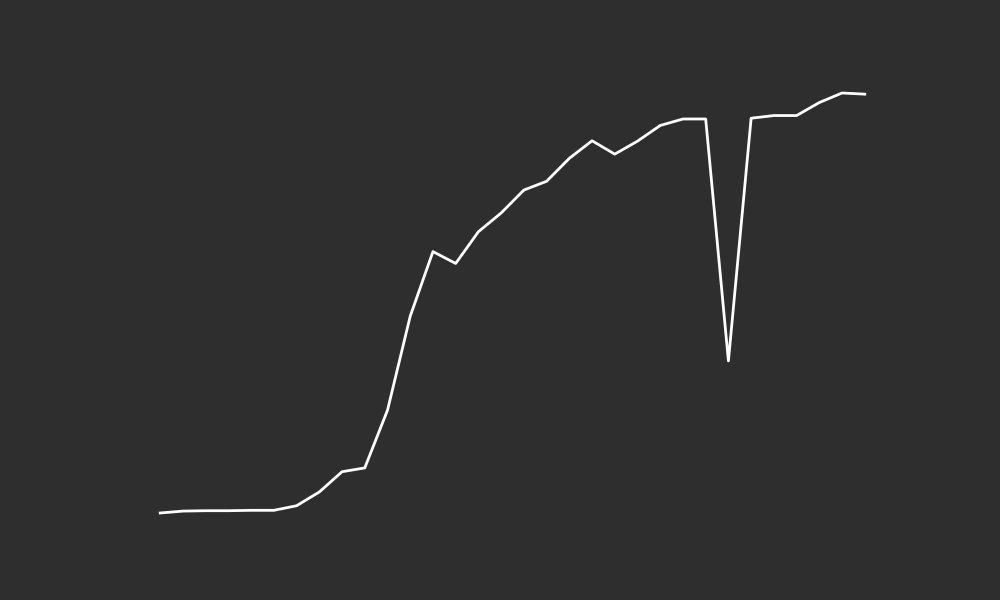
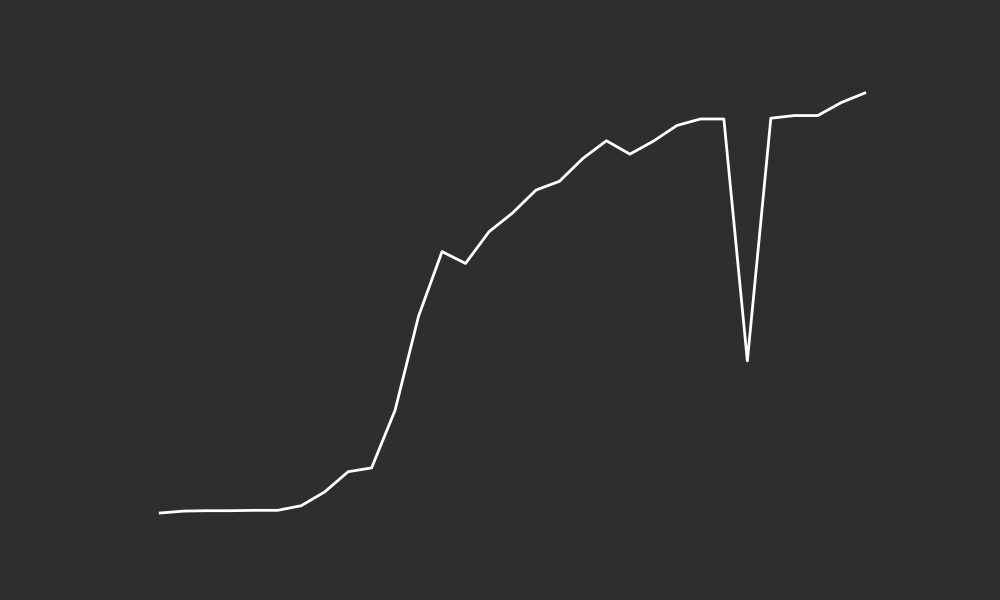
Returned to previous csv

diff --git a/README.md b/README.md
@@ -1,6 +1,6 @@
-# Delegators Count (APT $8.19)<br><br>
-Total Delegators: 48133<br>
-Total APT Delegated: 324017429<br><br>
+# Delegators Count (APT $8.14)<br><br>
+Total Delegators: 48136<br>
+Total APT Delegated: 323286579<br><br>
 ![Delegators Plot](delegators_plot.png)<br><br>
 **OP received for the third airdrop on 18.09.2023 (price of OP was $1.368):**<br>
 Addresses received drop: 31870<br>
@@ -8,7 +8,7 @@ Average amount received: 609.08 ($833.22)<br>
 Median amount received: 238.49 ($326.26)<br>
 Total drop distribution: 19411313 ($26554676.18)<br><br>
 If Aptos Foundation team spent the same amount for the delegation airdrop as Optimism Foundation team ($26554676.18),<br>
-they will spend 3242329.20 APT for this airdrop.<br>
-With this logic, every APT delegate will receive on average: 67.36 APT ($551.69)<br><br>
-Currently Foundation team has unlocked: 36848000.00 APT ($301785120.00)<br>
-If Aptos Foundation team spent this amount for the delegation airdrop, every APT delegate will receive : 765.55 APT ($6269.82)<br>
+they will spend 3262245.23 APT for this airdrop.<br>
+With this logic, every APT delegate will receive on average: 67.77 APT ($551.66)<br><br>
+Currently Foundation team has unlocked: 36848000.00 APT ($299942720.00)<br>
+If Aptos Foundation team spent this amount for the delegation airdrop, every APT delegate will receive : 765.50 APT ($6231.15)<br>
